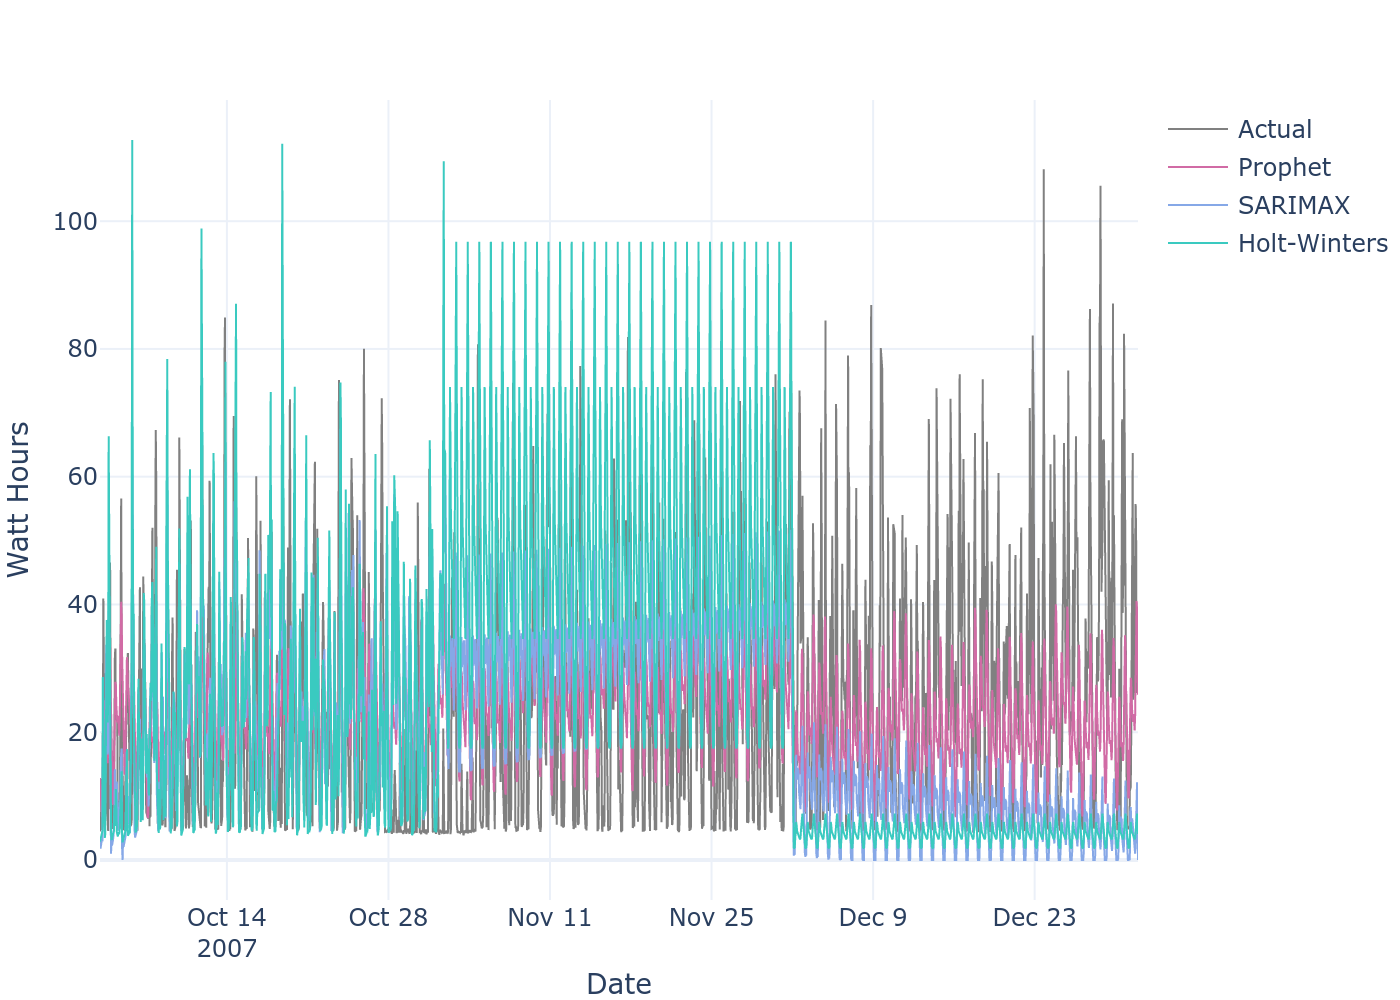
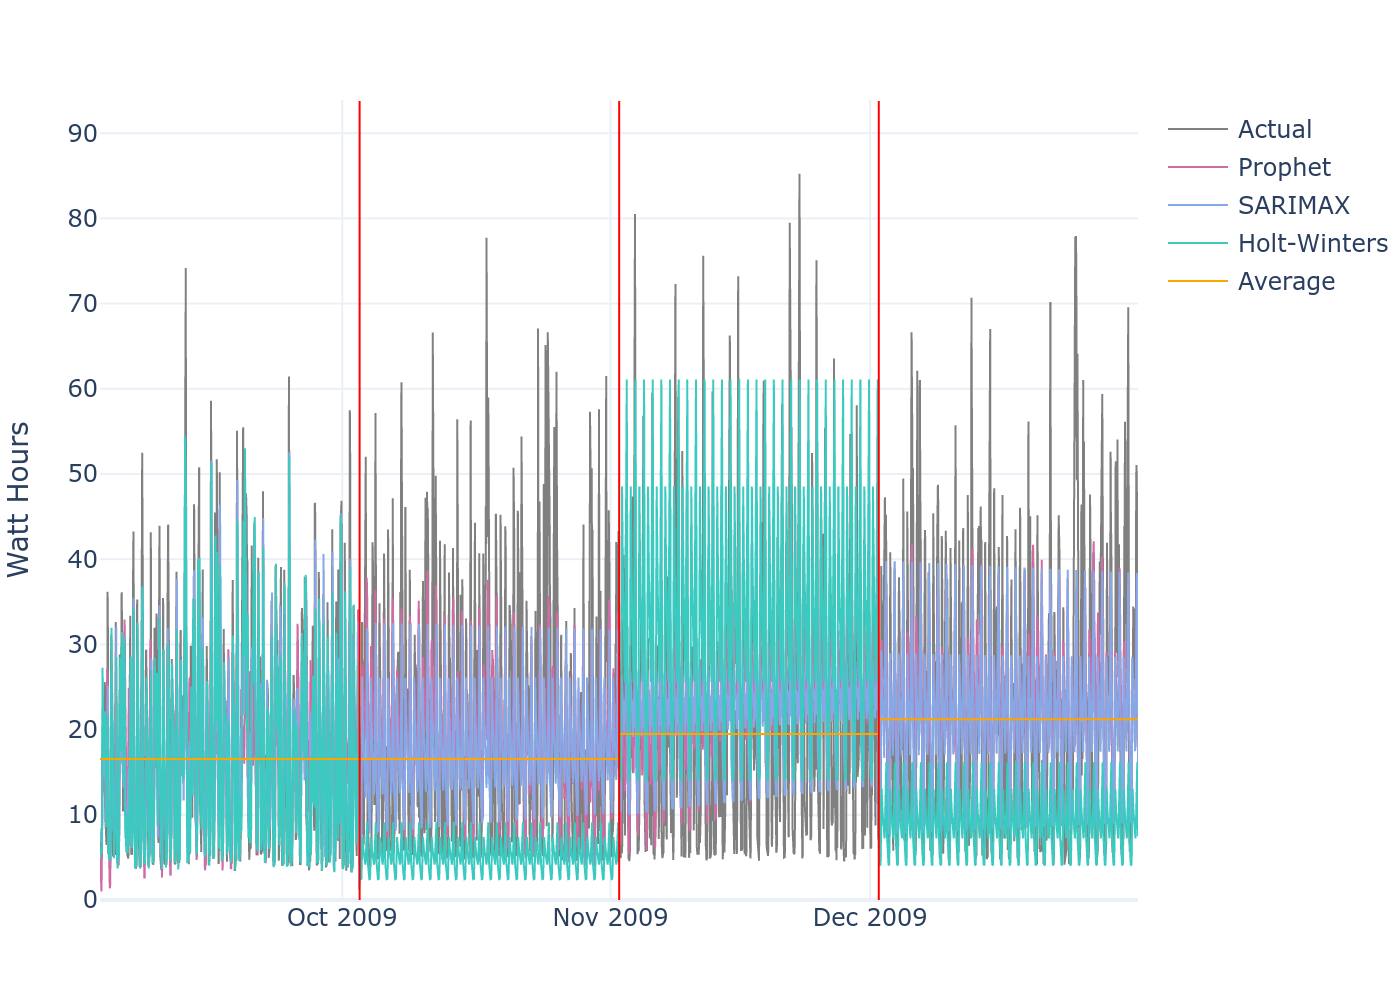
models in hour and day levels

diff --git a/notebooks/model_exploration.py b/notebooks/model_exploration.py
@@ -48,7 +48,7 @@ fig_path = os.path.join("reports", "figures")
 
 data = load_processed_data()
 # 2006 has some weird ratings, so lets just use data from 2007 onwards
-data = data["2007"]
+data = data["2007-01-01 00:00:00":"2009-12-31 23:59:00"]
 
 #%%
 
@@ -59,32 +59,32 @@ target_variable = "Global_active_power"
 hourmodel = dict(
     data=data,
     test_size=24 * 30,
-    tests=2,
-    agg_levels=["1H", "1D", "1M"],
+    tests=3,
+    agg_levels=["1H", "1D", "30D"],
     fig_path=os.path.join("reports", "figures"),
     img_timeseries_name="model_comparison_timeseries_hourmodel",
-    img_table_name="model_comparison_table_daymodel",
+    img_table_name="model_comparison_table_hourmodel",
     prophet_freq="H",
     sarimax_order=(2, 1, 1),
     sarimax_seasonal_order=(2, 0, 1, 24),
     holtwinters_seasonal_periods=24,
 )
 
-# daymodel = dict(
-#     data=data,
-#     test_size=30,
-#     tests=2,
-#     agg_levels=["1D", "1M"],
-#     fig_path=os.path.join("reports", "figures"),
-#     img_timeseries_name="model_comparison_timeseries_daymodel",
-#     img_table_name="model_comparison_table_daymodel",
-#     prophet_freq="H",
-#     sarimax_order=(2, 1, 1),
-#     sarimax_seasonal_order=(2, 0, 1, 365),
-#     holtwinters_seasonal_periods=365,
-# )
+daymodel = dict(
+    data=data,
+    test_size=30,
+    tests=3,
+    agg_levels=["1D", "30D"],
+    fig_path=os.path.join("reports", "figures"),
+    img_timeseries_name="model_comparison_timeseries_daymodel",
+    img_table_name="model_comparison_table_daymodel",
+    prophet_freq="D",
+    sarimax_order=(2, 1, 1),
+    sarimax_seasonal_order=(1, 0, 1, 7),
+    holtwinters_seasonal_periods=7,
+)
 
-models = [hourmodel]
+models = [hourmodel, daymodel]
 
 #%%
 
@@ -93,7 +93,7 @@ def prophet_cv(data, tests, test_size, results, freq):
 
     for test_number in range(1, tests + 1):
 
-        test_split = len(data) - test_size * test_number
+        test_split = len(data) - test_size * (tests - test_number + 1)
 
         df_train = data[:test_split][[target_variable]]
 
@@ -130,7 +130,7 @@ def sarimax_cv(data, tests, test_size, results, order, seasonal_order):
 
     for test_number in range(1, tests + 1):
 
-        test_split = len(data) - test_size * test_number
+        test_split = len(data) - test_size * (tests - test_number + 1)
 
         df_train = data[:test_split][[target_variable]]
 
@@ -169,7 +169,7 @@ def holtwinters_cv(data, tests, test_size, results, seasonal_periods):
 
     for test_number in range(1, tests + 1):
 
-        test_split = len(data) - test_size * test_number
+        test_split = len(data) - test_size * (tests - test_number + 1)
 
         df_train = data[:test_split][[target_variable]]
 
@@ -193,6 +193,29 @@ def holtwinters_cv(data, tests, test_size, results, seasonal_periods):
             ]
 
     results["holtwinters"] = predictions
+
+    return results
+
+
+def average_cv(data, tests, test_size, results):
+
+    # for average we use only the data from the previous test period
+    for test_number in range(1, tests + 1):
+
+        split_start = len(data) - test_size * (tests - test_number + 2)
+        split_end = len(data) - test_size * (tests - test_number + 1)
+
+        df_train = data[split_start:split_end][[target_variable]]
+
+        mean = df_train[target_variable].mean()
+
+        # for the first test take also the insample predictions
+        if test_number == 1:
+            predictions = [mean] * test_size * 2
+        else:
+            predictions = predictions + [mean] * test_size
+
+    results["average"] = predictions
 
     return results
 
@@ -252,8 +275,39 @@ def draw_prediction_plot(results, agg_suffix, fig_path, img_timeseries_name):
             line=dict(color=col_magenta, width=1),
         )
     )
+    fig.add_trace(
+        go.Scatter(
+            x=results.index,
+            y=results["average"],
+            mode="lines",
+            name="Average",
+            line=dict(color="orange", width=1),
+        )
+    )
+    y_max = results.select_dtypes(include=["float"]).values.max() * 1.1
+    vlines = []
+    for i, start_point in enumerate(
+        results.reset_index().groupby("type")["Date_Time"].min().to_list()
+    ):
+        if i != 0:
+            vlines.append(
+                {
+                    "type": "line",
+                    "xref": "x",
+                    "yref": "y",
+                    "x0": start_point,
+                    "y0": 0,
+                    "x1": start_point,
+                    "y1": y_max,
+                    "line": dict(color="red", width=1),
+                }
+            )
+
+    fig.update_layout(shapes=vlines)
+
     fig.update_layout(
-        xaxis_title="Date",
+        yaxis=dict(rangemode="tozero"),
+        xaxis_title="",
         yaxis_title="Watt Hours",
         margin=go.layout.Margin(
             l=margin_l, r=margin_r, b=margin_b, t=margin_t, pad=margin_pad
@@ -273,25 +327,26 @@ def draw_metrics_table(tests, results, agg_suffix, fig_path, img_table_name):
     index_type = ["Insample"] + [
         "Test {}".format(test_number) for test_number in range(1, tests + 1)
     ]
-    index_type = index_type * 3
-    index_metric = ["MSE"] * (tests + 1) + ["MAE"] * (tests + 1) + ["R2"] * (tests + 1)
+    index_type = index_type * 2
+    index_metric = ["MSE"] * (tests + 1) + ["MAE"] * (tests + 1)
     index = pd.MultiIndex.from_arrays(
         [index_type, index_metric], names=("Type", "Metric")
     )
-    columns = ["Prophet", "SARIMAX", "Holt-Winters"]
+    columns = ["Prophet", "SARIMAX", "Holt-Winters", "Average"]
     result_metrics = pd.DataFrame(index=index, columns=columns)
 
-    models = ["prophet", "sarimax", "holtwinters"]
+    models = ["prophet", "sarimax", "holtwinters", "average"]
     for model, model_column in zip(models, columns):
         metrics = []
-        for metric in [mean_squared_error, mean_absolute_error, r2_score]:
+        for metric in [mean_squared_error, mean_absolute_error]:
             for type in results["type"].unique():
                 metrics.append(
                     round(
                         metric(
                             results.loc[results["type"] == type, target_variable],
                             results.loc[results["type"] == type, model],
-                        )
+                        ),
+                        2,
                     )
                 )
         result_metrics[model_column] = metrics
@@ -317,7 +372,7 @@ def draw_metrics_table(tests, results, agg_suffix, fig_path, img_table_name):
     fig.write_image(
         os.path.join(fig_path, img_table_name + "_" + agg_suffix + ".png"),
         width=img_width,
-        height=(img_height - 50) / 2,
+        height=(img_height - 60) / 2,
         scale=img_scale,
     )
     fig.show()
@@ -347,13 +402,14 @@ def model_and_plot(
     results = data[[target_variable]][-(test_size * (tests + 1)) :]
     results["type"] = ["insample"] * test_size + [
         "test_{}".format(test_number)
-        for _ in range(test_size)
         for test_number in range(1, tests + 1)
+        for _ in range(test_size)
     ]
 
     results = prophet_cv(
         data=data, tests=tests, test_size=test_size, results=results, freq=prophet_freq
     )
+
     results = sarimax_cv(
         data=data,
         tests=tests,
@@ -362,6 +418,7 @@ def model_and_plot(
         order=sarimax_order,
         seasonal_order=sarimax_seasonal_order,
     )
+
     results = holtwinters_cv(
         data=data,
         tests=tests,
@@ -370,20 +427,20 @@ def model_and_plot(
         seasonal_periods=holtwinters_seasonal_periods,
     )
 
-    print(results)
+    results = average_cv(data=data, tests=tests, test_size=test_size, results=results)
+
     for agg in agg_levels:
 
-        print(results)
-        results, agg_suffix = aggregate_df(results, agg, cat_column="type")
-        print(results)
+        results_agg, agg_suffix = aggregate_df(results, agg, cat_column="type")
+
         draw_prediction_plot(
-            results=results,
+            results=results_agg,
             agg_suffix=agg_suffix,
             fig_path=fig_path,
             img_timeseries_name=img_timeseries_name,
         )
         draw_metrics_table(
-            results=results,
+            results=results_agg,
             tests=tests,
             agg_suffix=agg_suffix,
             fig_path=fig_path,
